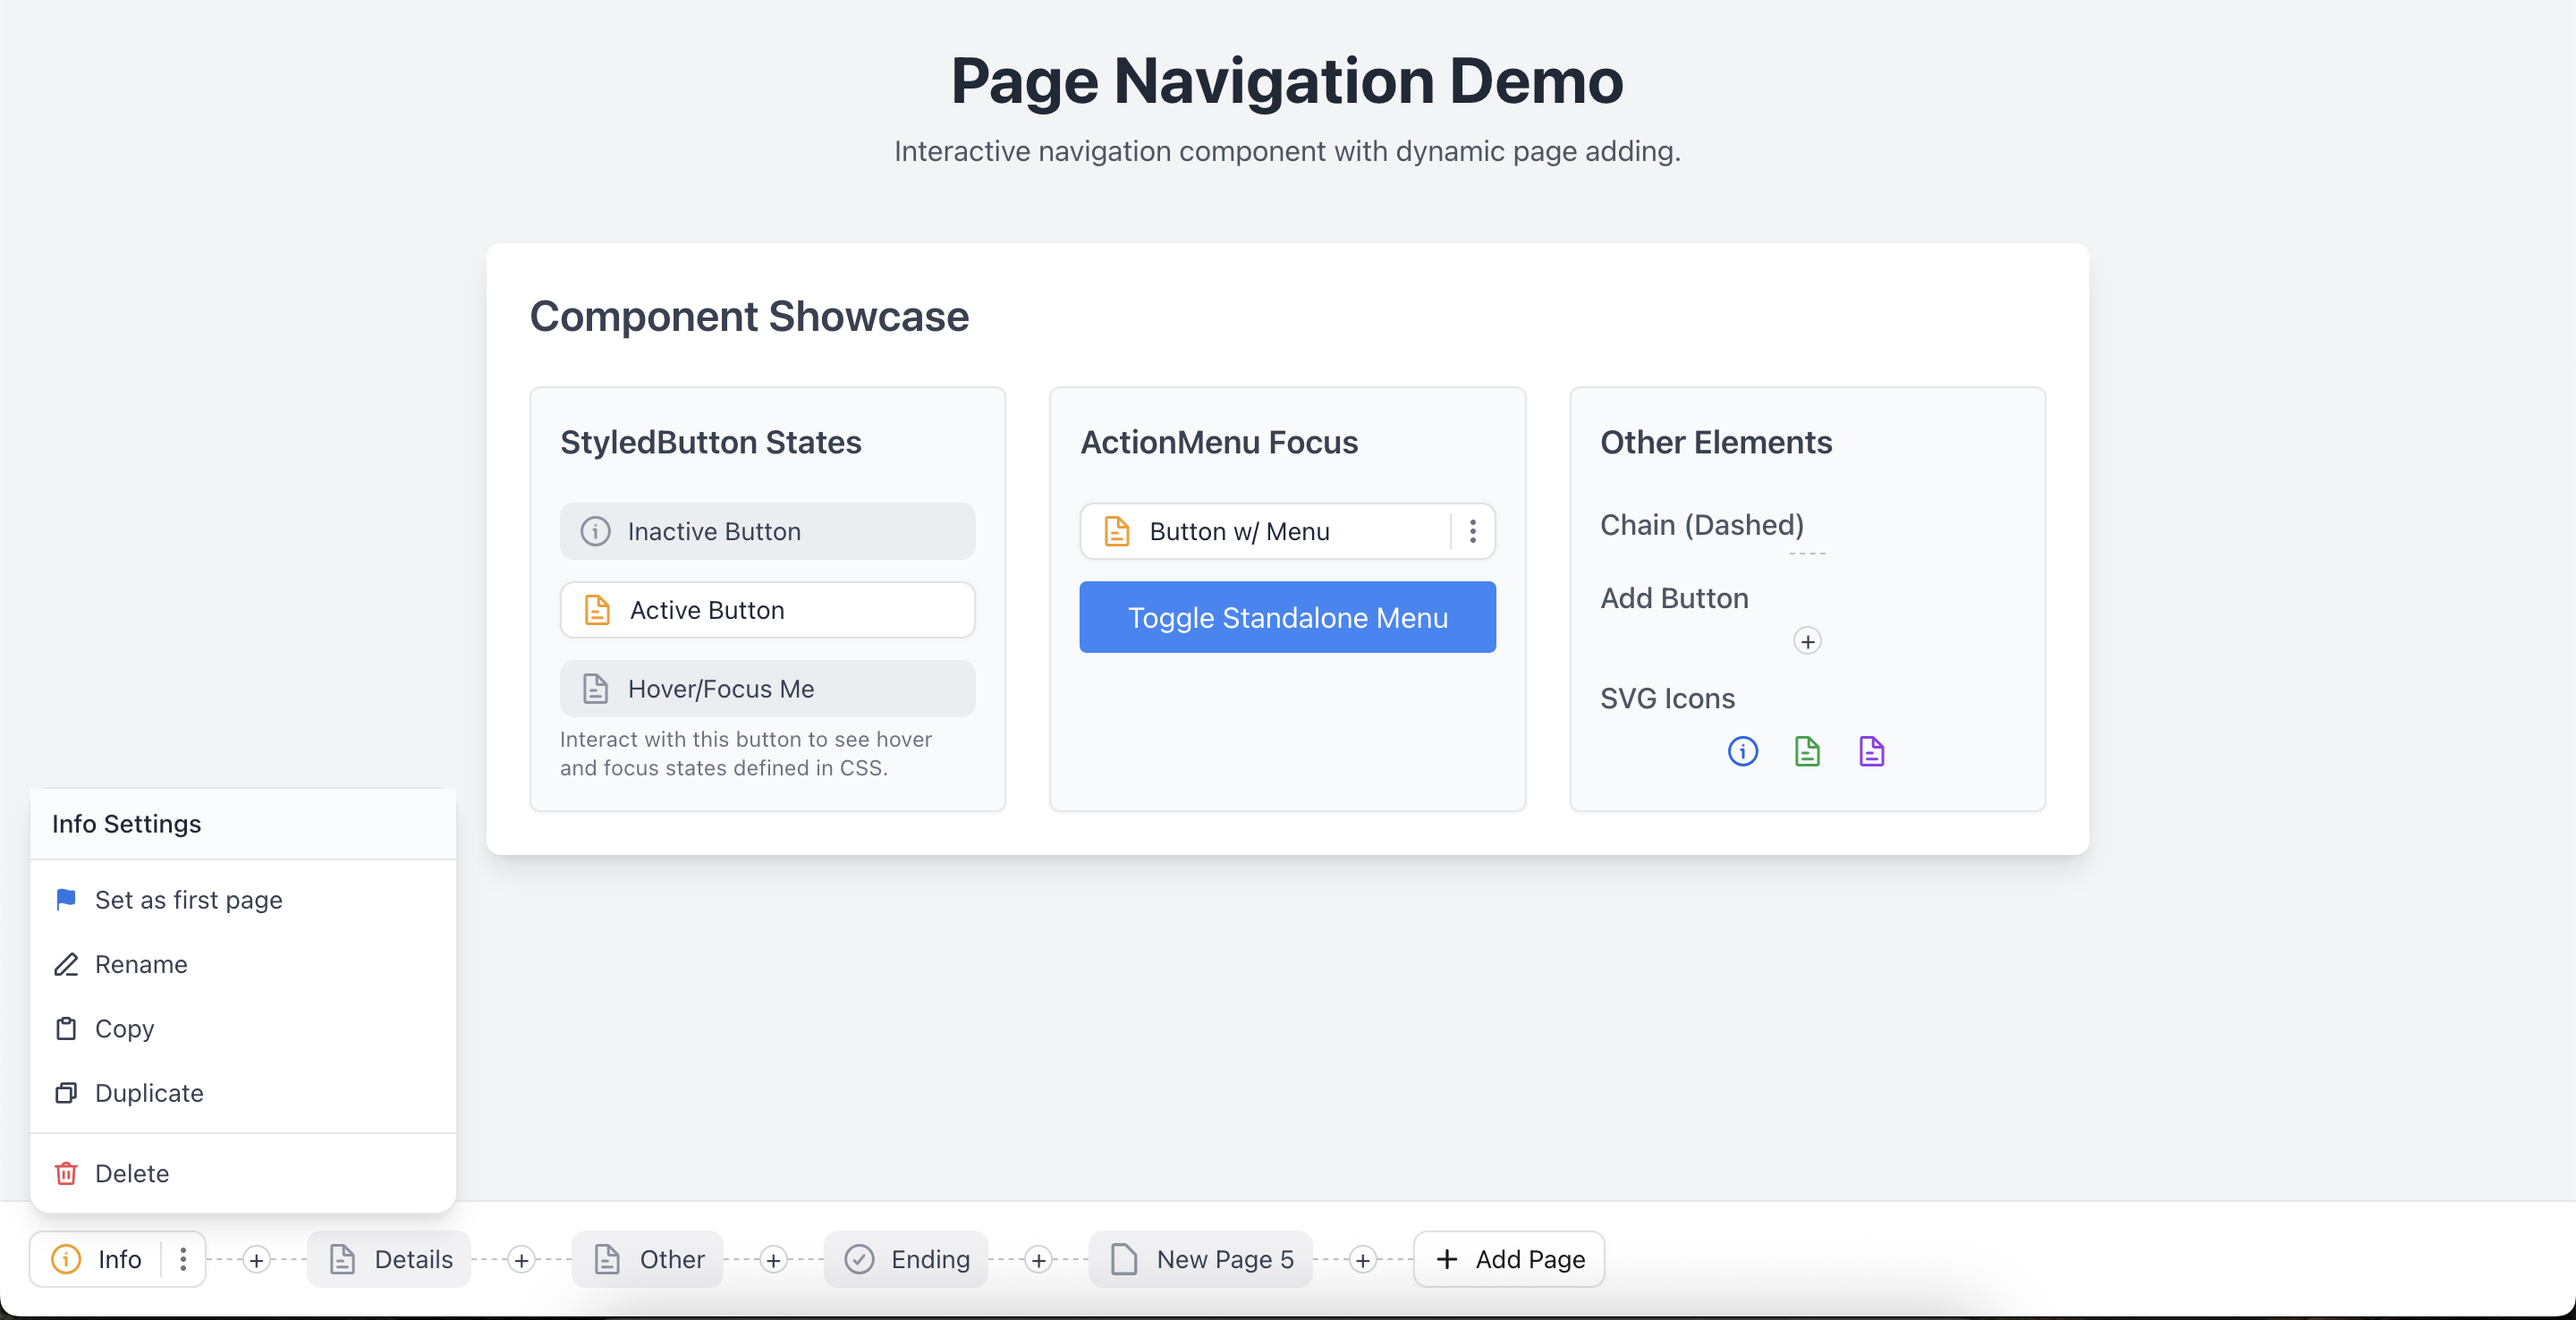
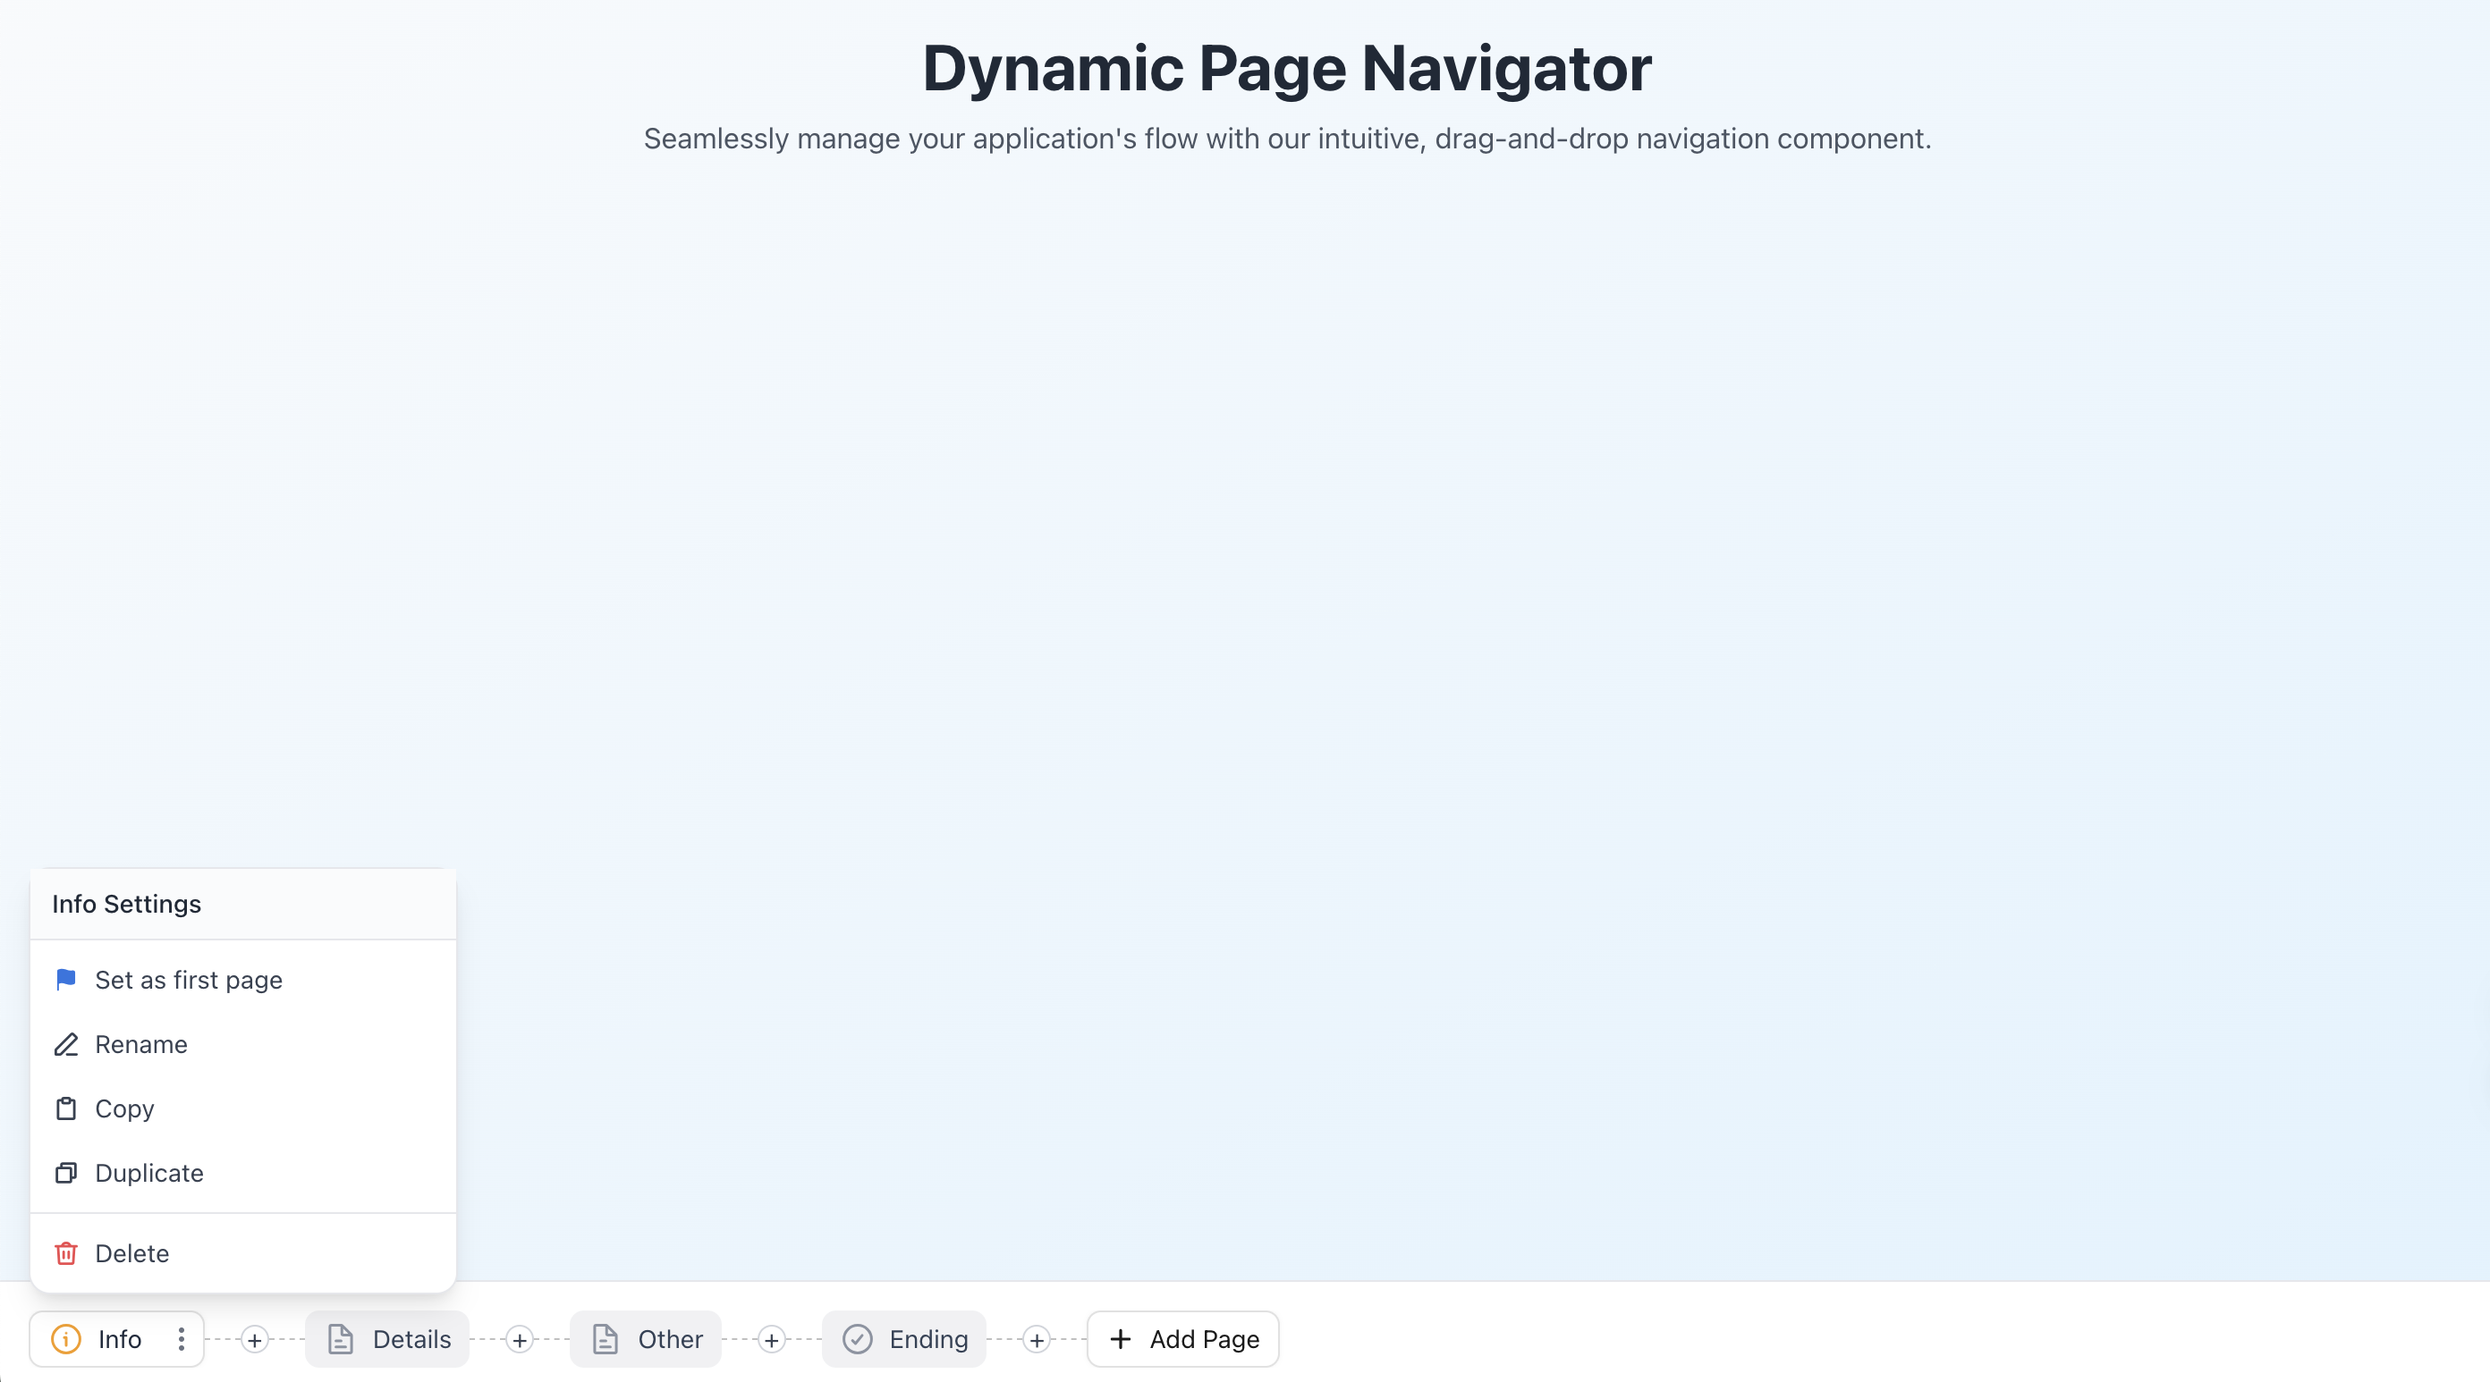
docs: Update README.md with project details and image

diff --git a/README.md b/README.md
@@ -1,4 +1,47 @@
-# Page Navigator Component
+# Dynamic Page Navigator
+
+![Dynamic Page Navigator Showcase](public/Image.png)
+
+An intuitive and dynamic page navigation component built with React and TypeScript. This component allows for seamless management of your application's flow with drag-and-drop reordering, dynamic page adding, and a clean, modern interface.
+
+## Features
+
+- **Drag-and-Drop Reordering:** Easily reorder pages with a smooth drag-and-drop interface.
+- **Dynamic Page Management:** Add new pages to the navigation flow on the fly.
+- **Active State Management:** Clear visual indicators for the currently active page.
+- **Customizable Action Menus:** Each page item can have a context menu with custom actions.
+- **Modern UI:** A clean and modern design built with Tailwind CSS.
+
+## Getting Started
+
+To get a local copy up and running, follow these simple steps.
+
+### Prerequisites
+
+- [Node.js](https://nodejs.org/en/) (v14 or later)
+- [npm](https://www.npmjs.com/)
+
+### Installation
+
+1.  Clone the repo
+    ```sh
+    git clone https://github.com/matthew1996-dev/page-navigation-component.git
+    ```
+2.  Install NPM packages
+    ```sh
+    npm install
+    ```
+3.  Run the development server
+    ```sh
+    npm start
+    ```
+
+## Technologies Used
+
+- [React](https://reactjs.org/)
+- [TypeScript](https://www.typescriptlang.org/)
+- [Tailwind CSS](https://tailwindcss.com/)
+- [dnd-kit](https://dndkit.com/) for drag-and-drop functionality
 
 This project is a React-based web application showcasing a dynamic and interactive page navigation component. It features drag-and-drop reordering, dynamic page creation, and context-sensitive action menus for each page item. The application also includes a component showcase section to demonstrate individual UI elements used within the navigator.
 
